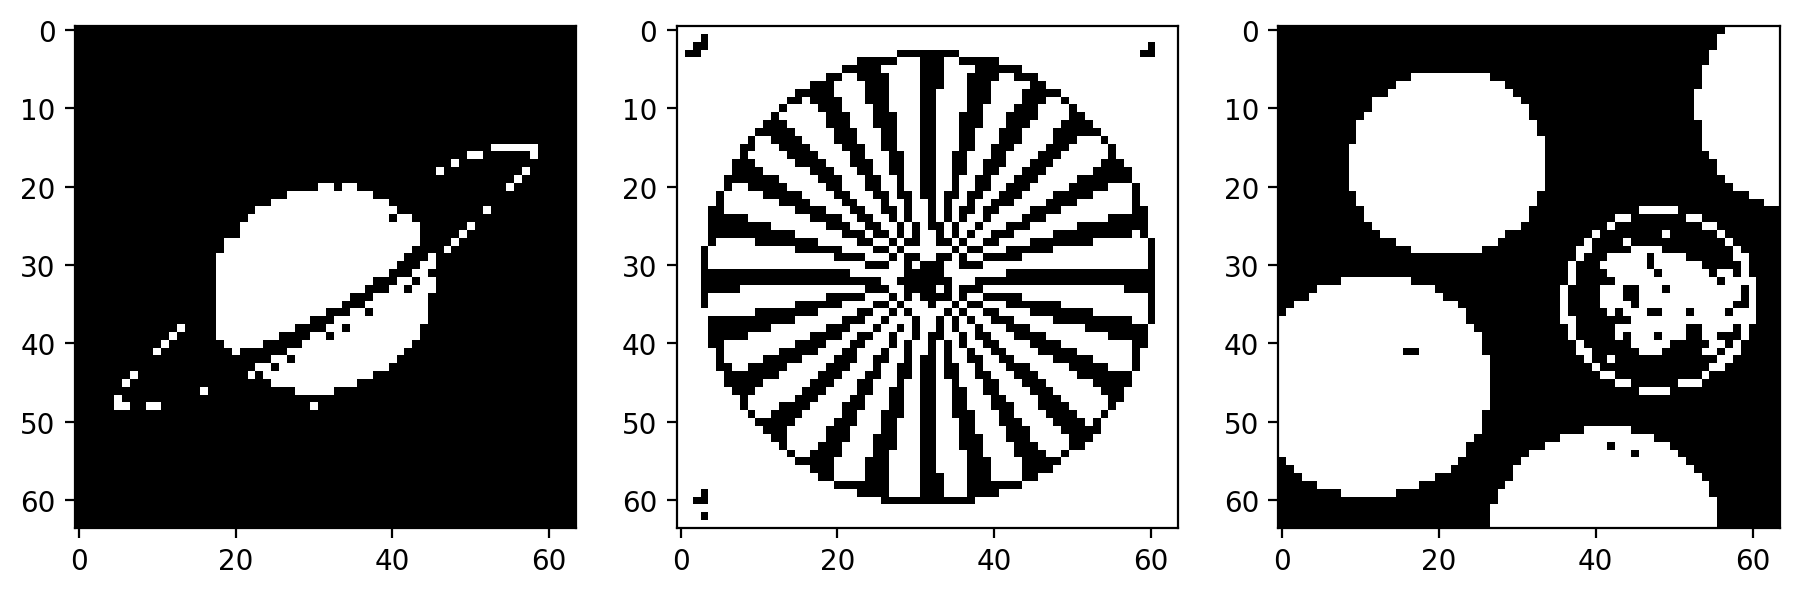
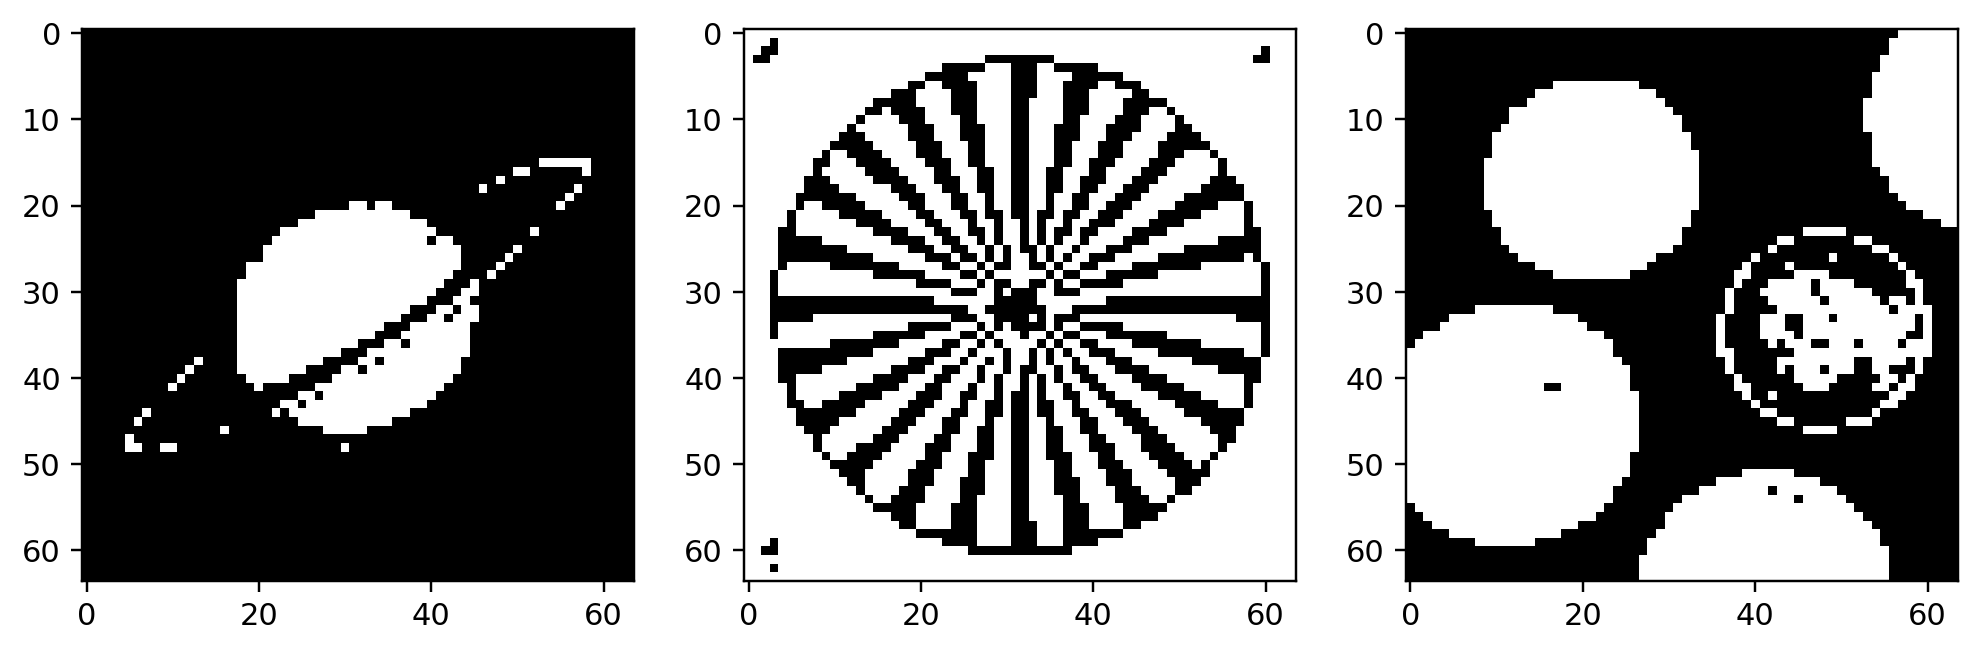
Rename Hopfield extension figure outputs and add native exporter

diff --git a/07_hopfield_extensions/hopfield_extensions.py b/07_hopfield_extensions/hopfield_extensions.py
@@ -8,6 +8,25 @@ import numpy as np
 import matplotlib.pyplot as plt
 from scipy.io import loadmat
 from pathlib import Path
+import json
+
+
+FIG_DIR = Path(__file__).resolve().parent / "figures"
+FIG_DIR.mkdir(parents=True, exist_ok=True)
+_fig_counter = 1
+_saved_figures = []
+
+
+def save_and_show():
+    global _fig_counter
+    for num in plt.get_fignums():
+        fig = plt.figure(num)
+        name = f"hopfield_extensions_fig_{_fig_counter:03d}.png"
+        fig.savefig(FIG_DIR / name, dpi=220, bbox_inches="tight")
+        _saved_figures.append(name)
+        _fig_counter += 1
+    plt.show()
+    plt.close("all")
 
 
 # # Hopfield model: extensions
@@ -107,7 +126,7 @@ plt.subplot(1,3,2)
 plt.imshow(X2, cmap='gray')
 plt.subplot(1,3,3)
 plt.imshow(X3, cmap='gray')
-plt.show()
+save_and_show()
 
 
 Y1 = from_mtx_to_array(X1)
@@ -142,7 +161,7 @@ print('The number of neurons to switch (L) is: ', L)
 plt.figure(figsize=(5,5))
 plt.imshow(from_array_to_mtx(Y), cmap='gray')
 plt.title('Initial perturbated image')
-plt.show()
+save_and_show()
 
 while L > 0:# until the number of neurons to switch (L) is = 0 
     # step 0: pick one random integer from 0 to L-1
@@ -160,7 +179,7 @@ while L > 0:# until the number of neurons to switch (L) is = 0
         print('The number of neurons to switch (L) is: ', L)
         plt.figure(figsize=(5,5))
         plt.imshow(from_array_to_mtx(Y), cmap='gray')
-        plt.show()
+        save_and_show()
 
 
 # In[4]:
@@ -192,7 +211,7 @@ plt.subplot(2,2,3)
 plt.imshow(I3, cmap='gray')
 plt.subplot(2,2,4)
 plt.imshow(I4, cmap='gray')
-plt.show()
+save_and_show()
 
 Y1 = from_mtx_to_array(I1)
 Y2 = from_mtx_to_array(I2)
@@ -208,7 +227,7 @@ mask_to_switch = (mask_to_switch-0.5)*2
 plt.figure(figsize=(5,5))
 plt.imshow(from_array_to_mtx(Y3), cmap='gray')
 plt.title('Selected image')
-plt.show()
+save_and_show()
 
 Y = Y3*mask_to_switch
 
@@ -227,7 +246,7 @@ print('The number of neurons to switch (L) is: ', L)
 plt.figure(figsize=(5,5))
 plt.imshow(from_array_to_mtx(Y), cmap='gray')
 plt.title('Initial perturbated image')
-plt.show()
+save_and_show()
 while L > 0: # until the number of neurons to switch (L) is = 0 
     # step 0: pick one random integer from 0 to L-1
     idx = np.random.randint(L)
@@ -245,7 +264,7 @@ while L > 0: # until the number of neurons to switch (L) is = 0
         print('The number of neurons to switch (L) is: ', L)
         plt.figure(figsize=(5,5))
         plt.imshow(from_array_to_mtx(Y), cmap='gray')
-        plt.show()
+        save_and_show()
 
 
 # In[5]:
@@ -270,7 +289,7 @@ plt.subplot(2,2,2)
 plt.imshow(X2, cmap='gray')
 plt.subplot(2,2,3)
 plt.imshow(X3, cmap='gray')
-plt.show()       
+save_and_show()
 
 Y1 = from_mtx_to_array(X1)
 Y2 = from_mtx_to_array(X2)
@@ -299,7 +318,7 @@ print('The number of neurons to switch (L) is: ', L)
 plt.figure(figsize=(5,5))
 plt.imshow(from_array_to_mtx(Y), cmap='gray')
 plt.title('Initial perturbated image')
-plt.show()
+save_and_show()
 while L > 0:
     # step 0: pick one random integer from 0 to L-1
     idx = np.random.randint(L)
@@ -315,10 +334,15 @@ while L > 0:
         print('The number of neurons to switch (L) is: ', L)
         plt.figure(figsize=(5,5))
         plt.imshow(from_array_to_mtx(Y), cmap='gray')
-        plt.show()
+        save_and_show()
 
 
 # In[ ]:
+
+
+manifest_path = FIG_DIR / "hopfield_extensions_manifest.json"
+manifest_path.write_text(json.dumps(_saved_figures, indent=2), encoding="utf-8")
+print(f"Saved {len(_saved_figures)} figures in {FIG_DIR}")
 
 
 
